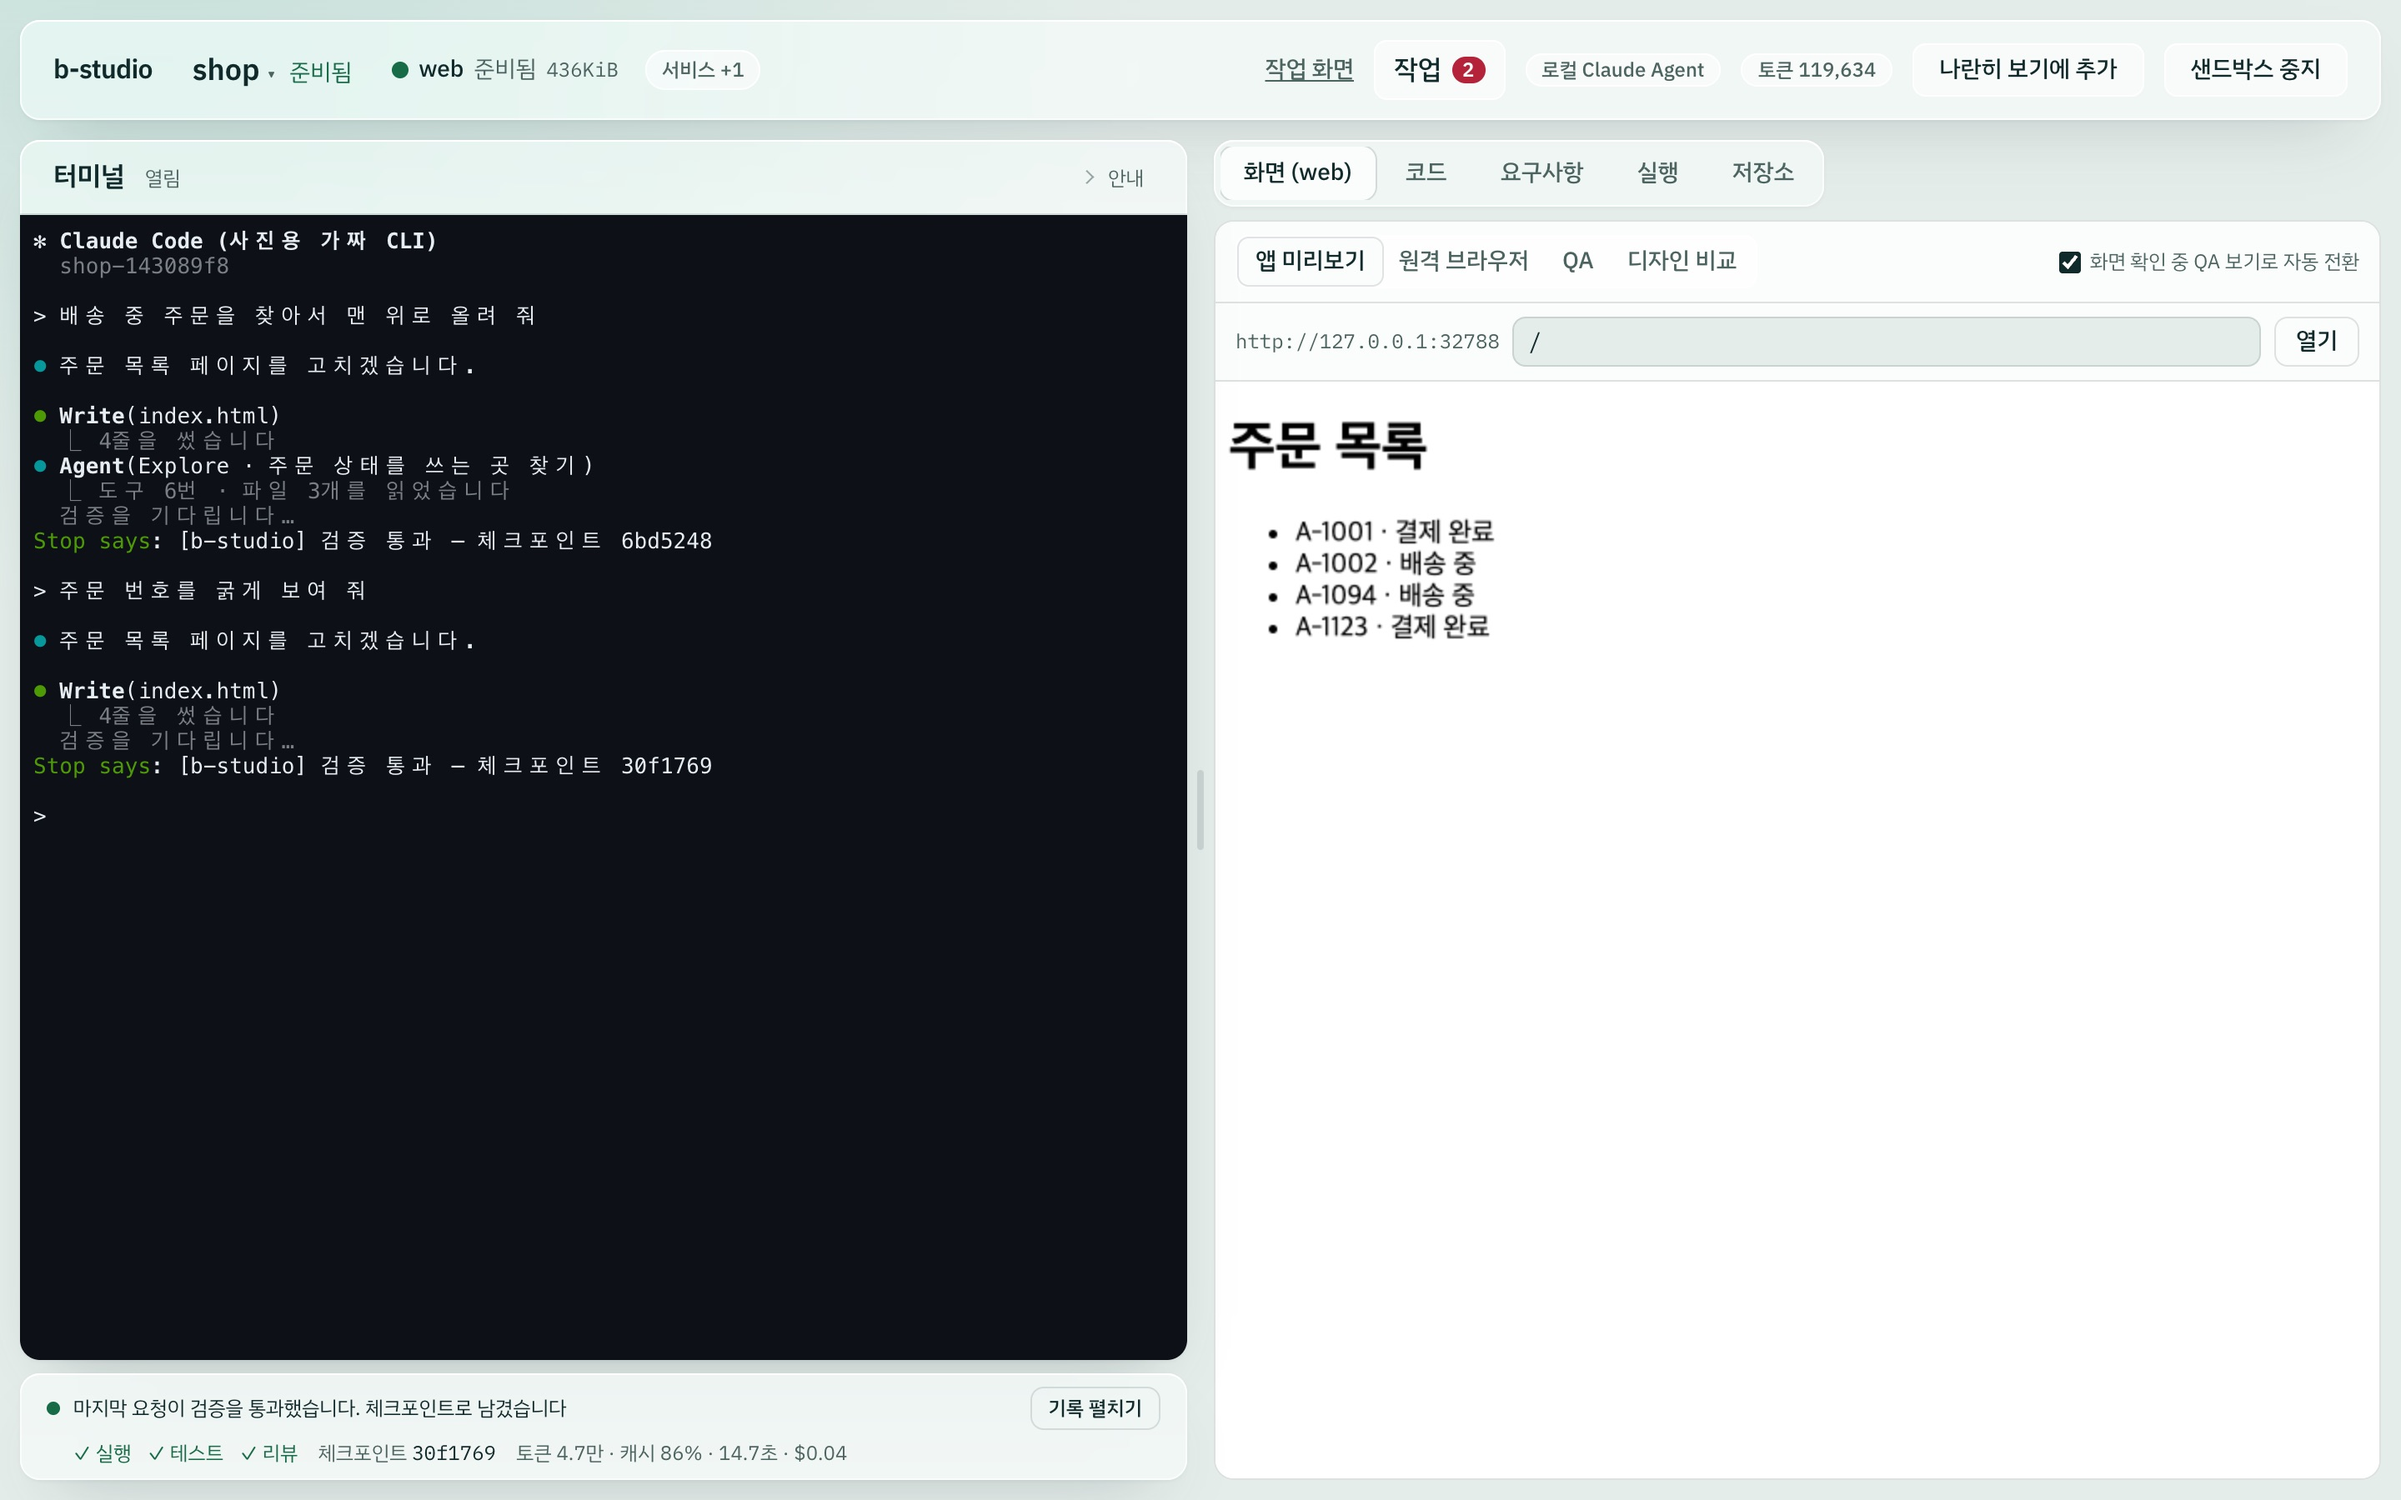
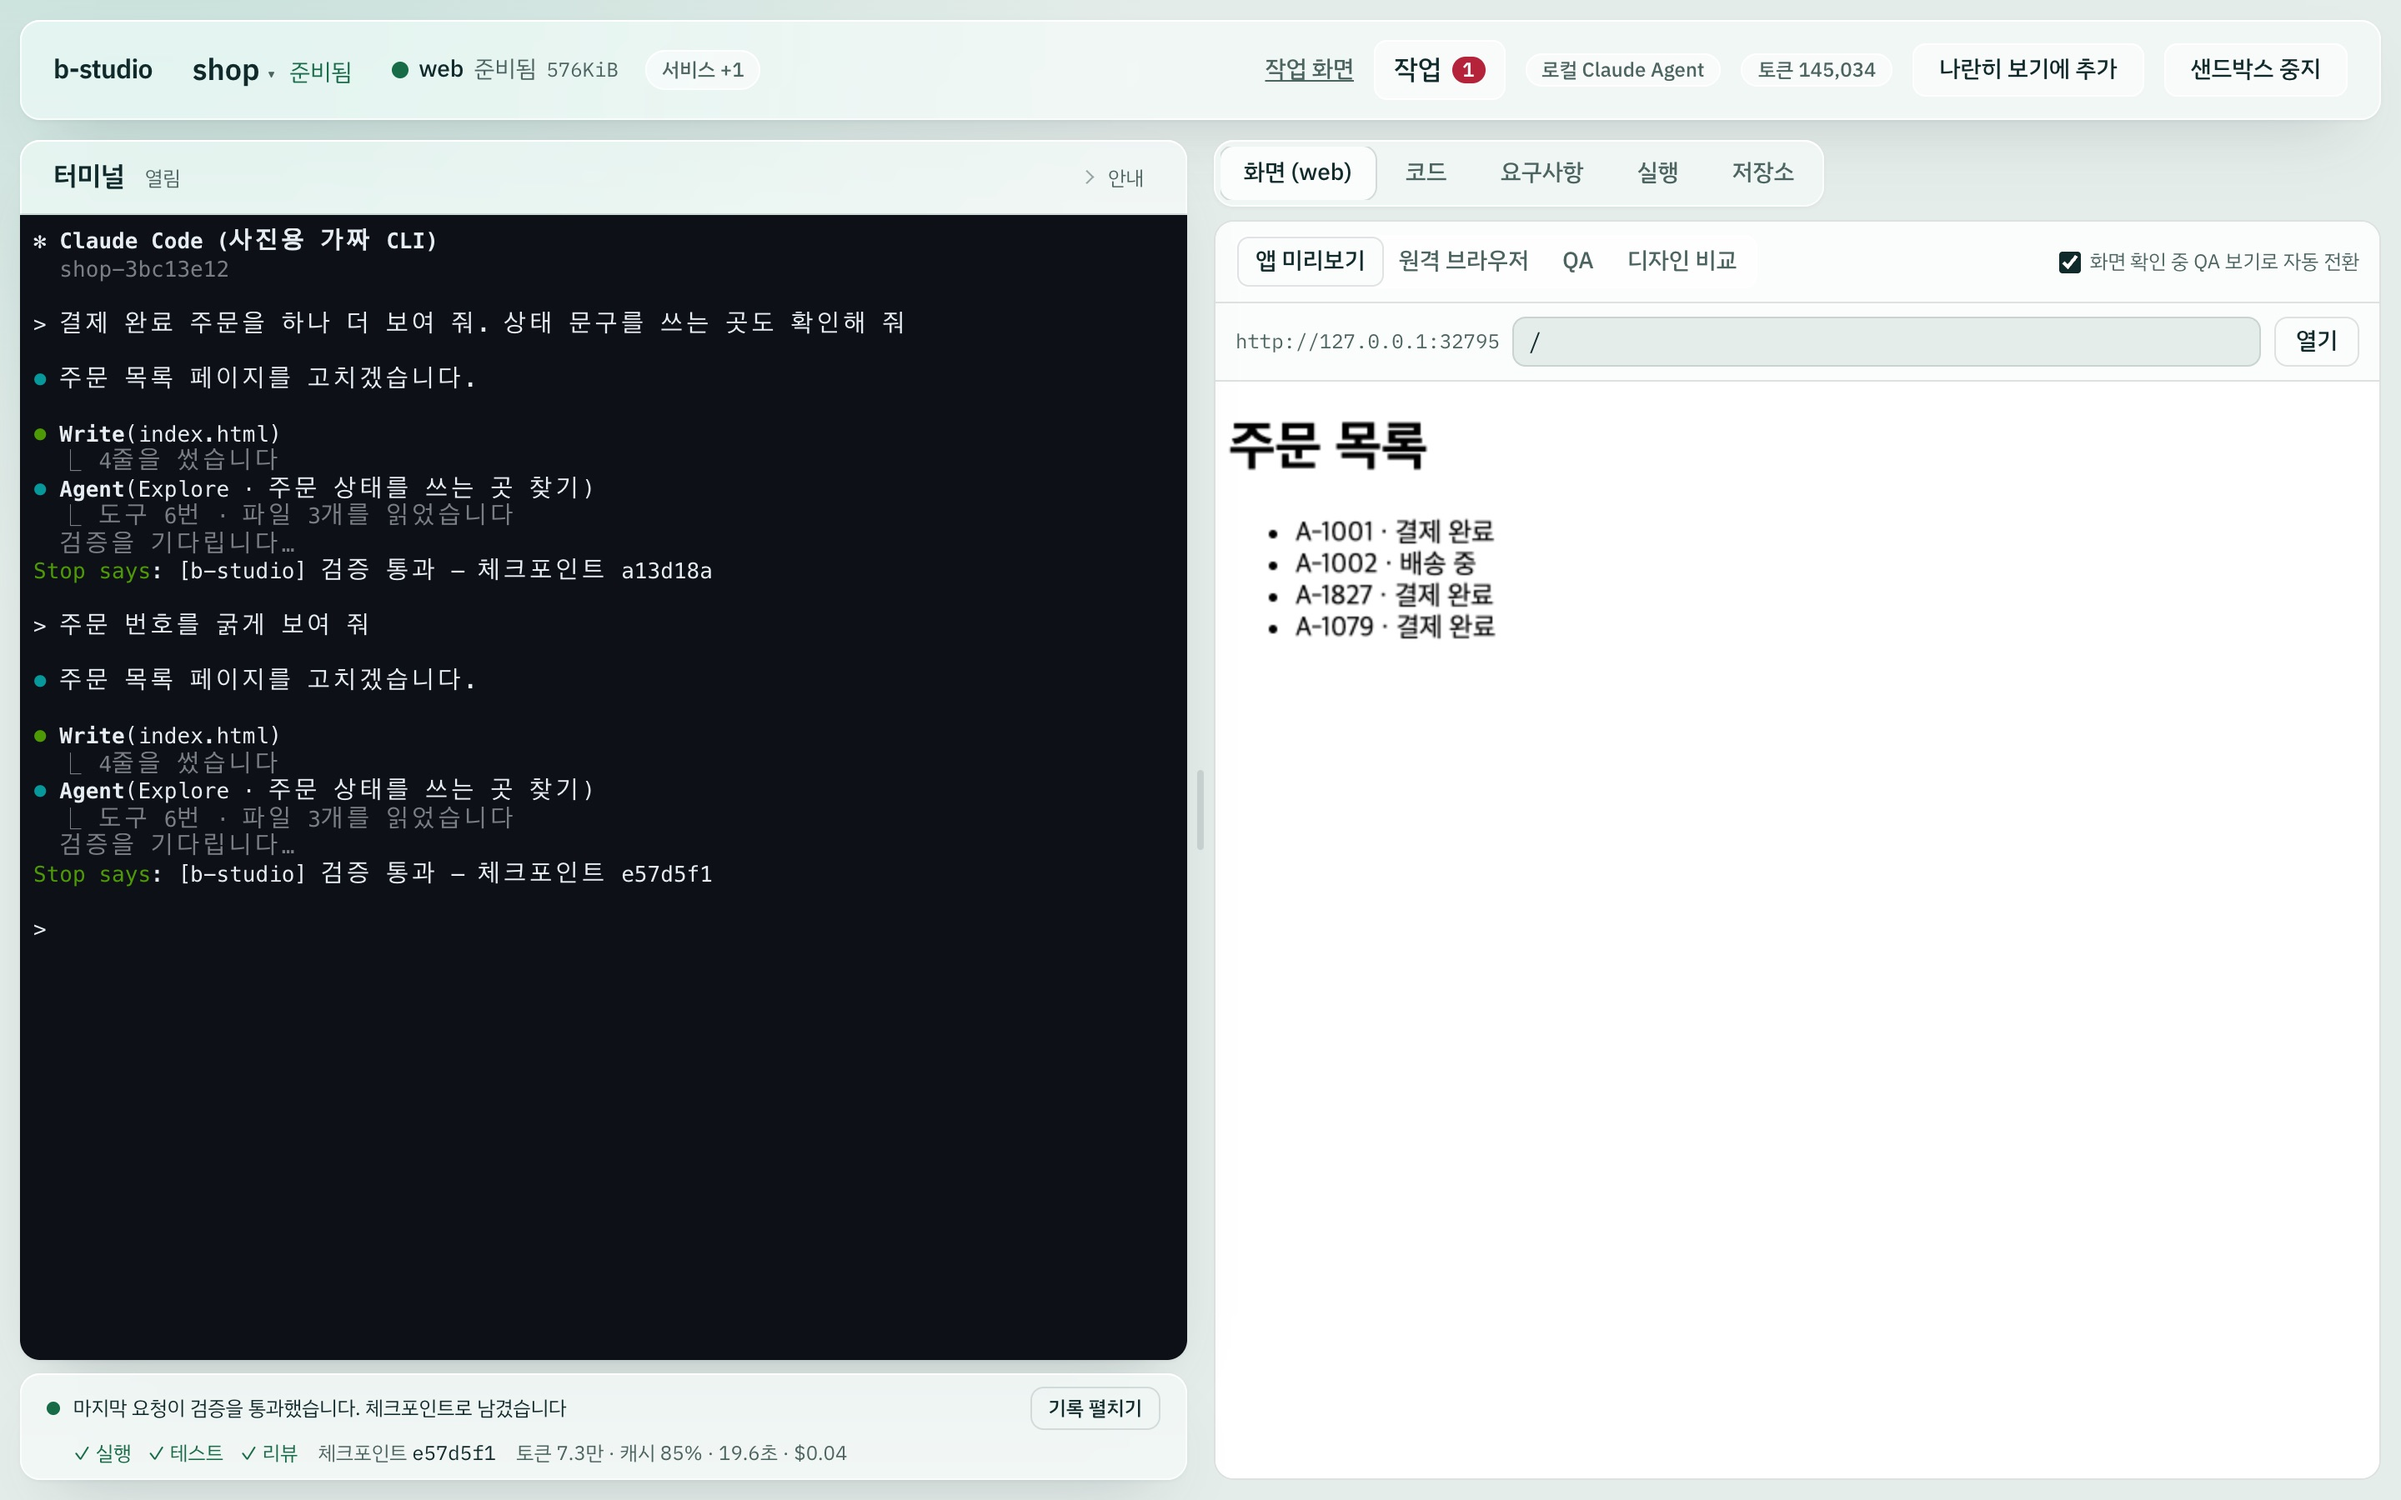
fix: 웹 세션 터미널에서 한글이 한 글자씩 벌어져 보이던 것을 줄인다 (#865) (#869)
* fix: 웹 세션 터미널에서 한글이 한 글자씩 벌어져 보이지 않게 한글 범위에 2칸에 맞춘 대체 글꼴을 쓴다 (#865)

* docs: 고친 한글 글꼴로 세션 터미널·나란히 보기·작업 카드 사진을 다시 찍는다 (#865)

---------

Changed region(s): [[0.0, 0.1556, 0.2812, 0.5911], [0.5625, 0.3733, 0.625, 0.4356], [0.3438, 0.1867, 0.375, 0.2178]]

diff --git a/apps/studio/components/terminal-panel.tsx b/apps/studio/components/terminal-panel.tsx
@@ -3,7 +3,7 @@
 import { useCallback, useEffect, useRef, useState } from "react";
 import "@xterm/xterm/css/xterm.css";
 import type { TerminalMessage } from "@/lib/server/session-terminal";
-import { decodeTerminalData, terminalPasteText, terminalStatusLabel, type TerminalGateStatus, type TerminalStatus } from "@/lib/terminal";
+import { decodeTerminalData, TERMINAL_FONT_FAMILY, TERMINAL_HANGUL_FONT, TERMINAL_LINE_HEIGHT, terminalPasteText, terminalStatusLabel, type TerminalGateStatus, type TerminalStatus } from "@/lib/terminal";
 import { useChatDraft } from "./chat-draft-context";
 import { useSessionAccess } from "./session-access";
 import { useTerminalStream, type TerminalStreamMessage } from "./terminal-stream";
@@ -73,12 +73,15 @@ export function TerminalPanel({
     void (async () => {
       // xterm은 브라우저에서만 불러온다(모듈을 읽는 순간 창을 본다)
       const [{ Terminal }, { FitAddon }] = await Promise.all([import("@xterm/xterm"), import("@xterm/addon-fit")]);
+      // xterm은 넓은 글자의 폭을 처음 그릴 때 재어 둔다. 한글 대체 글꼴을 먼저 읽어 두지 않으면 시스템 글꼴의 폭으로 재어 글자 사이가 벌어진다
+      await document.fonts?.load(`13px "${TERMINAL_HANGUL_FONT}"`, "가").catch(() => undefined);
       if (disposed) return;
       const terminal = new Terminal({
         cursorBlink: true,
-        // 한글은 영문 글꼴에 없어 대체 글꼴로 그려진다. 고정 폭 한글 글꼴이 깔려 있으면 그것을 먼저 쓴다(칸 너비에 맞아 글자 사이가 벌어지지 않는다)
-        fontFamily: 'ui-monospace, SFMono-Regular, "SF Mono", Menlo, Consolas, "Liberation Mono", "D2Coding", "Sarasa Mono K", "NanumGothicCoding", "Nanum Gothic Coding", monospace',
+        // 한글은 영문 글꼴에 없어 대체 글꼴로 그려진다. 고정 폭 한글 글꼴이 깔려 있으면 그것을, 없으면 2칸에 맞춰 키운 시스템 한글 글꼴을 쓴다(#865)
+        fontFamily: TERMINAL_FONT_FAMILY,
         fontSize: 13,
+        lineHeight: TERMINAL_LINE_HEIGHT,
         scrollback: 5000,
         theme: { background: "#0d1117", foreground: "#e6edf3", cursor: "#e6edf3", selectionBackground: "#264f78" },
       });

diff --git a/apps/studio/lib/terminal-font.test.ts b/apps/studio/lib/terminal-font.test.ts
@@ -1,0 +1,29 @@
+import { readFileSync } from 'node:fs';
+import { describe, expect, it } from 'vitest';
+import { TERMINAL_FONT_FAMILY, TERMINAL_HANGUL_FONT, TERMINAL_LINE_HEIGHT } from './terminal';
+
+const css = readFileSync(new URL('../app/globals.css', import.meta.url), 'utf8');
+
+describe('세션 터미널의 한글 글꼴(#865)', () => {
+  it('한글 고정폭 글꼴이 없을 때 쓰는 한글 대체 글꼴이 monospace 앞, 깔린 한글 고정폭 글꼴 뒤에 있다', () => {
+    const fonts = TERMINAL_FONT_FAMILY.split(',').map((font) => font.trim().replace(/"/g, ''));
+    expect(fonts[0]).toBe('ui-monospace');
+    expect(fonts.at(-1)).toBe('monospace');
+    expect(fonts.at(-2)).toBe(TERMINAL_HANGUL_FONT);
+    expect(fonts.indexOf('D2Coding')).toBeLessThan(fonts.indexOf(TERMINAL_HANGUL_FONT));
+  });
+
+  it('한글 대체 글꼴은 한글 범위에만 걸리고, 2칸에 가깝게 키운다(글자 사이가 반 칸씩 벌어지지 않는다)', () => {
+    const face = css.match(new RegExp(`@font-face\\s*{[^}]*font-family:\\s*"${TERMINAL_HANGUL_FONT}"[^}]*}`))?.[0];
+    expect(face).toBeDefined();
+    expect(face).toMatch(/unicode-range:[^;]*U\+AC00-D7A3/);
+    expect(face).toMatch(/unicode-range:[^;]*U\+3130-318F/);
+    expect(face).toMatch(/src:[^;]*local\("Apple SD Gothic Neo"\)/);
+    expect(face).toMatch(/src:[^;]*local\("Malgun Gothic"\)/);
+    expect(face).toMatch(/size-adjust:\s*118%/);
+  });
+
+  it('키운 한글이 윗줄에 닿지 않게 줄 높이를 조금 둔다', () => {
+    expect(TERMINAL_LINE_HEIGHT).toBe(1.1);
+  });
+});

diff --git a/apps/studio/lib/terminal.ts b/apps/studio/lib/terminal.ts
@@ -264,3 +264,14 @@ export function writeRecordOpen(storage: Pick<Storage, 'setItem'> | undefined, o
   }
 }
 
+
+/**
+ * 한글 고정폭 글꼴이 없을 때 한글만 그리는 대체 글꼴(globals.css의 @font-face, #865).
+ * 영문 글꼴에 한글이 없으면 시스템 글꼴의 한글(칸 1.4개 폭)이 2칸 자리에 그려져, xterm이 남는 폭을 글자 사이로 벌려 "주 문 모 듈"처럼 보였다.
+ * 이 글꼴은 시스템 한글 글꼴을 한글 범위에서만 2칸에 가깝게 키운다
+ */
+export const TERMINAL_HANGUL_FONT = 'b-studio-hangul';
+/** 영문은 고정폭 글꼴, 한글은 깔린 한글 고정폭 글꼴(칸에 꼭 맞는다)이 먼저고 없으면 위의 대체 글꼴이다 */
+export const TERMINAL_FONT_FAMILY = `ui-monospace, SFMono-Regular, "SF Mono", Menlo, Consolas, "Liberation Mono", "D2Coding", "Sarasa Mono K", "NanumGothicCoding", "Nanum Gothic Coding", "${TERMINAL_HANGUL_FONT}", monospace`;
+/** 키운 한글이 윗줄에 닿지 않게 둔 줄 높이 */
+export const TERMINAL_LINE_HEIGHT = 1.1;

diff --git a/apps/studio/app/globals.css b/apps/studio/app/globals.css
@@ -2,6 +2,14 @@
 /* 수식(KaTeX) 스타일과 글꼴은 패키지에서 함께 묶는다. 샌드박스는 밖으로 나가지 못하므로 CDN에서 받지 않는다 */
 @import "katex/dist/katex.min.css";
 
+/* 세션 터미널의 한글 대체 글꼴(lib/terminal.ts의 TERMINAL_HANGUL_FONT, #865). 시스템 한글 글꼴을 한글 범위에서만 키워 2칸에 가깝게 맞춘다 */
+@font-face {
+  font-family: "b-studio-hangul";
+  src: local("Apple SD Gothic Neo"), local("AppleSDGothicNeo-Regular"), local("Malgun Gothic"), local("Noto Sans CJK KR"), local("Noto Sans KR"), local("NanumGothic");
+  unicode-range: U+1100-11FF, U+3130-318F, U+A960-A97F, U+AC00-D7A3, U+D7B0-D7FF;
+  size-adjust: 118%;
+}
+
 /*
  * 유리 작업대: 청록 빛이 은은하게 번진 바탕 위에 조작 계층(헤더, 탭, 대화)을 반투명 유리로 띄운다.
  * 오래 읽는 영역(미리보기, 로그, diff, 게이트 결과)은 불투명 패널로 두어 가독성을 지킨다.

diff --git a/CHANGELOG.md b/CHANGELOG.md
@@ -6,6 +6,7 @@
 
 ### 수정
 
+- 웹 세션 터미널(세션 화면, 나란히 보기)에서 한글이 "주 문 모 듈"처럼 한 글자씩 벌어져 보이던 것을 고쳤습니다. 한글 고정폭 글꼴이 없으면 시스템 한글 글꼴이 2칸 자리에 작게 그려져 남는 폭이 글자 사이로 갔습니다. 한글 범위에만 시스템 한글 글꼴을 키운 대체 글꼴을 쓰고 줄 높이를 조금 늘렸습니다. D2Coding 같은 한글 고정폭 글꼴이 깔려 있으면 그것을 먼저 씁니다(#865).
 - `studio desk`에서 붙여 넣은 글 안의 `Ctrl-b`가 명령으로 읽혀 칸이 닫히던 것을 고쳤습니다. 붙여넣기는 내용 그대로 CLI에 가고, CLI가 bracketed paste를 켰으면 표지로 감쌉니다. 함께 고친 것: 서버가 목록 순서를 바꾸면 사이드바에서 고르던 세션이 바뀌던 것, 터미널이 끝났거나 스튜디오를 다시 띄운 뒤 칸이 다시 열리지 않던 것, 새 요청이 실패해도 까닭 대신 엉뚱한 안내가 나오던 것, 터미널로 띄울 수 없는 AI가 Tab 선택지에 있던 것, CLI가 숨긴 커서를 다시 보이던 것, 이모지·풀어쓴 한글에서 칸 경계가 밀리던 것, 응용 커서 키 모드를 켠 CLI에 방향키가 다른 꼴로 가던 것(ADR-183 덧붙임, #860).
 - 개발·데스크톱 의존성의 보안 공지를 고친 판으로 올렸습니다: vite 8.3.4, vitest 5.0.3, ip-address 10.7.3, brace-expansion 1.1.21·5.0.12, fast-uri 3.1.8, electron 44.5.1. 배포 2주가 지난 판만 썼고, vite는 vitest의 peer로 자동 설치되던 것을 루트 개발 의존성에 정확한 판으로 적었습니다. `pnpm audit` 경고가 17건에서 7건으로 줄었고, 남은 next(16.4.1이 2026-10-28에 2주)·ip-address 10.7.4(2026-10-25)는 #808에서 이어 갑니다(#857).
 - `studio desk`에서 사이드바를 ↑↓로 고르다가 다시 누른 `Ctrl-b`가 칸으로 넘어가 다음 글자가 CLI 입력이 되던 것을 고쳤습니다. 고르는 중의 `Ctrl-b`는 새 앞글쇠로 보고, 아래 줄에 고르는 중임을 보입니다(#855).

diff --git a/docs/configuration.md b/docs/configuration.md
@@ -263,7 +263,7 @@ B_STUDIO_EXPERIMENTAL=1 pnpm studio launch
 B_STUDIO_EXPERIMENTAL=1 pnpm studio launch
 ```
 
-<img src="images/studio-session-terminal.jpg" width="760" alt="세션 화면. 왼쪽에 터미널이 크게 있고 CLI가 index.html을 고치고 Explore 서브에이전트를 띄운 뒤 'Stop says: [b-studio] 검증 통과 — 체크포인트 6bd5248'이 찍혀 있다. 그 아래 활동 줄에 '마지막 요청이 검증을 통과했습니다'와 실행·테스트·리뷰의 통과 표시, 체크포인트 번호, 토큰·캐시·시간·비용이 있다. 오른쪽은 화면 탭의 앱 미리보기다. 사진의 CLI는 모델을 부르지 않는 사진용 가짜 CLI다">
+<img src="images/studio-session-terminal.jpg" width="760" alt="세션 화면. 왼쪽에 터미널이 크게 있고 CLI가 index.html을 고치고 Explore 서브에이전트를 띄운 뒤 'Stop says: [b-studio] 검증 통과 — 체크포인트 a13d18a'이 찍혀 있다. 그 아래 활동 줄에 '마지막 요청이 검증을 통과했습니다'와 실행·테스트·리뷰의 통과 표시, 체크포인트 번호, 토큰·캐시·시간·비용이 있다. 오른쪽은 화면 탭의 앱 미리보기다. 사진의 CLI는 모델을 부르지 않는 사진용 가짜 CLI다">
 
 - **터미널이 화면의 중심입니다.** 왼쪽에 터미널, 오른쪽에 작업 패널(화면·코드·요구사항·실행·저장소)이 놓입니다. 사이의 경계를 끌거나 화살표 키로 옮기면 그 자리를 기억합니다(두 번 누르면 가운데로).
 - 터미널 아래의 **활동 줄**이 마지막 요청의 상태(처리 중, 검증 중, 통과, 실패), 단계별 결과, 가장 최근 체크포인트를 보여 줍니다. **기록 펼치기**를 누르면 그 아래에 활동 기록이 열립니다: 검증이 왜 실패했는지, 되돌린 변경을 되살리는 버튼, 올리기 결과가 여기에 있습니다. 대화 창에서 입력창만 뺀 것입니다.
